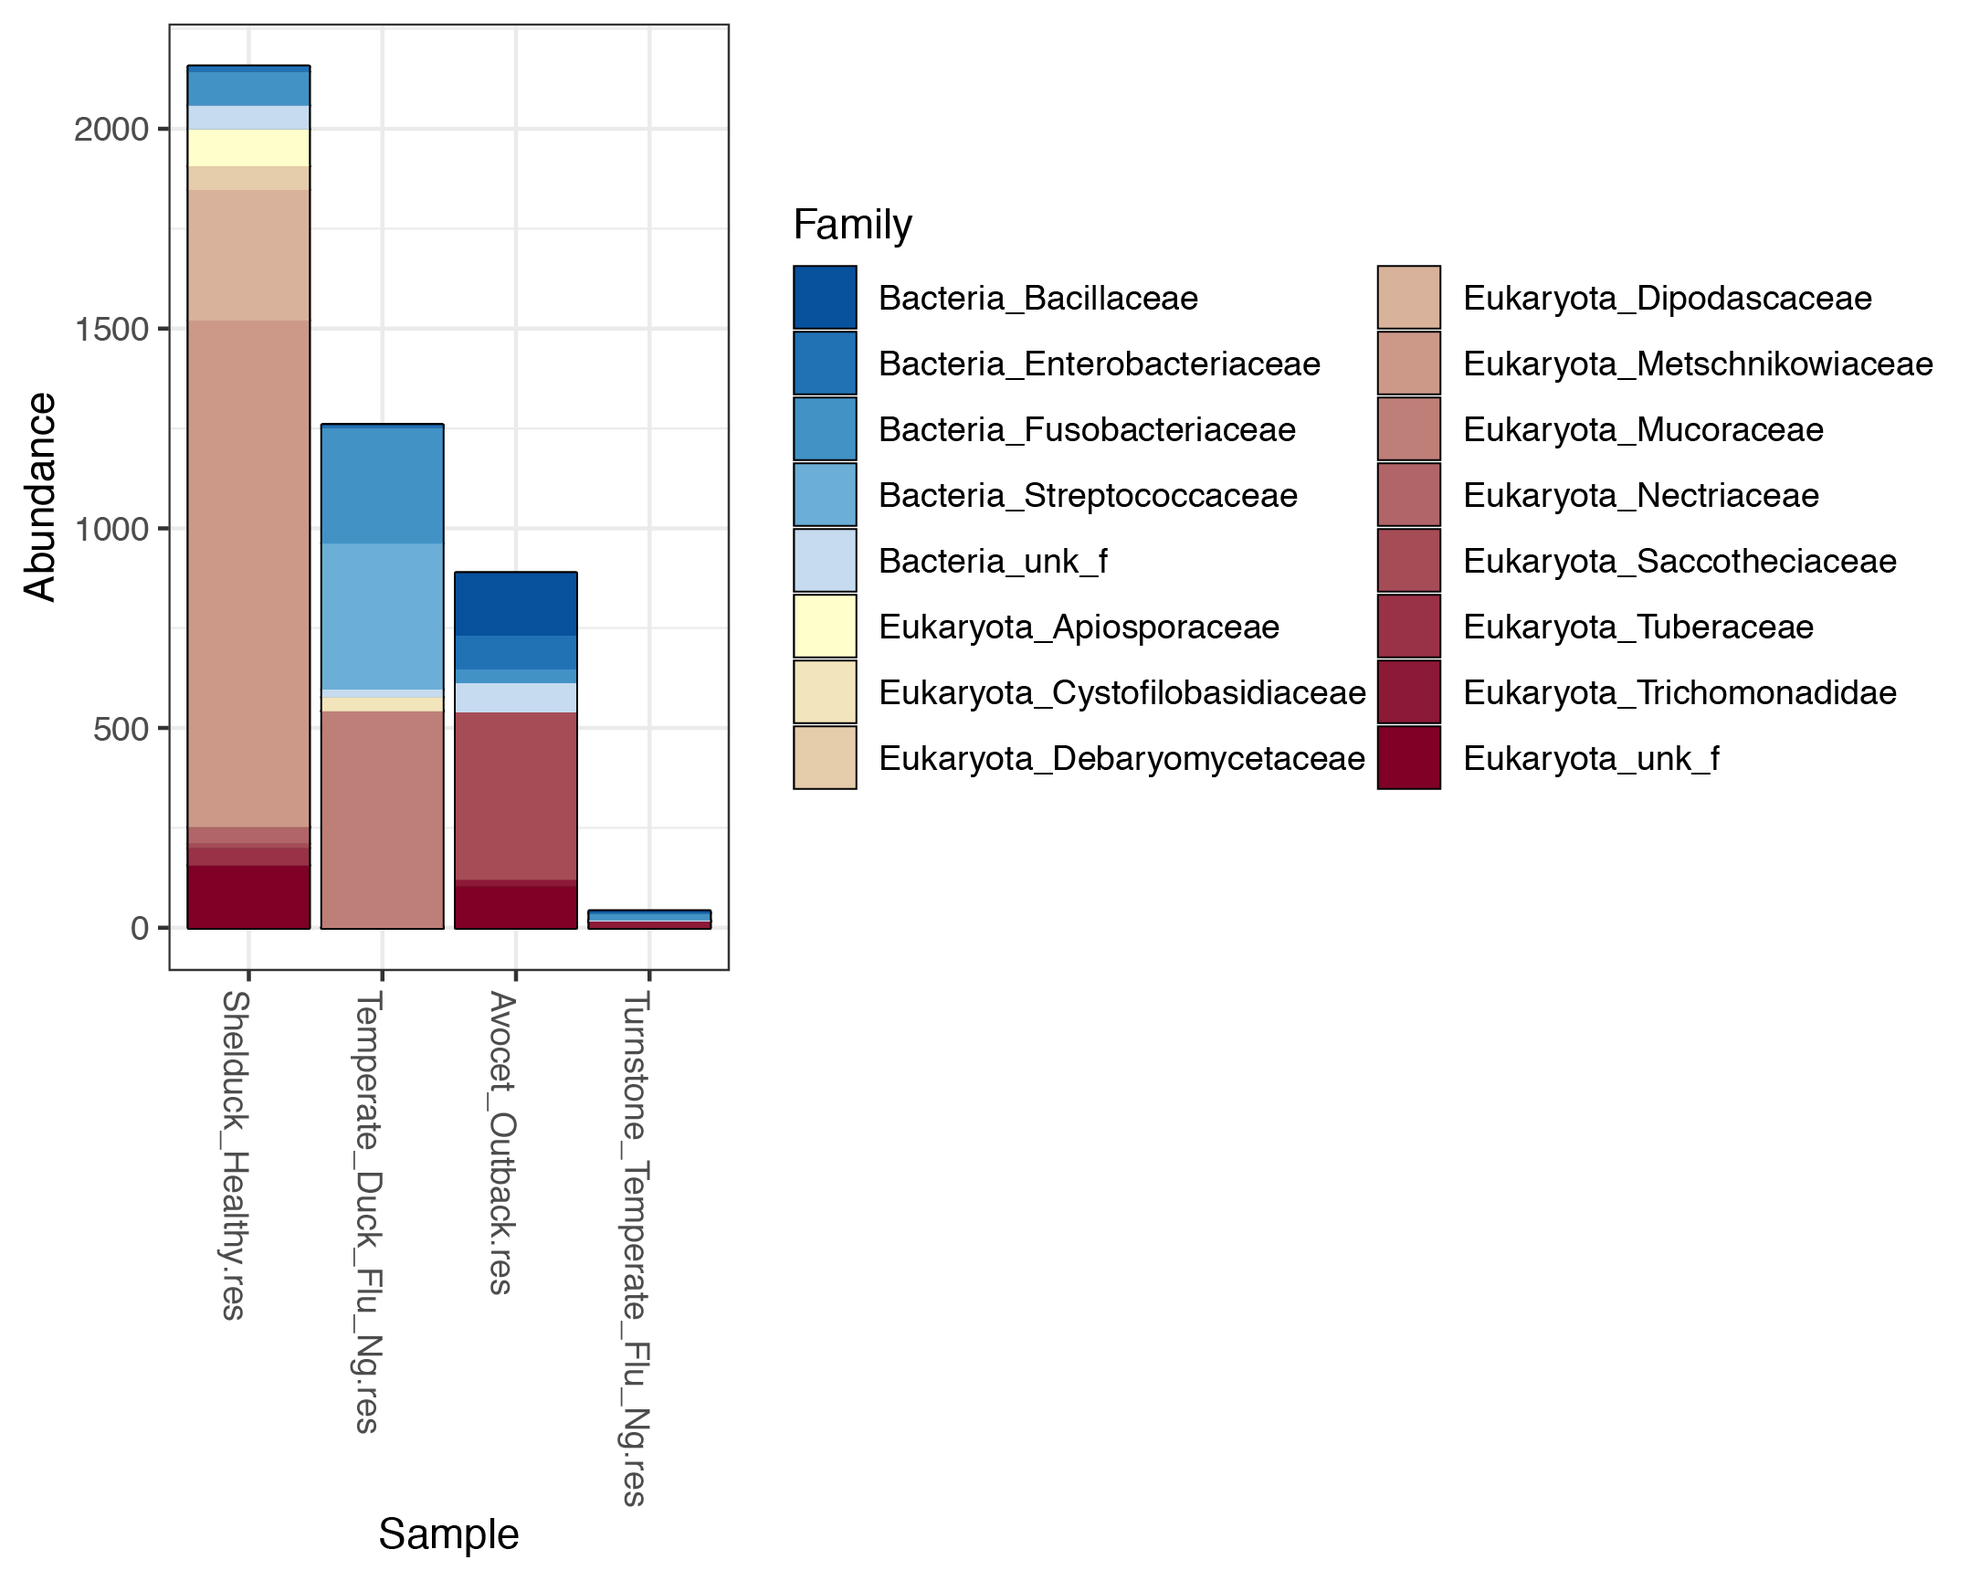
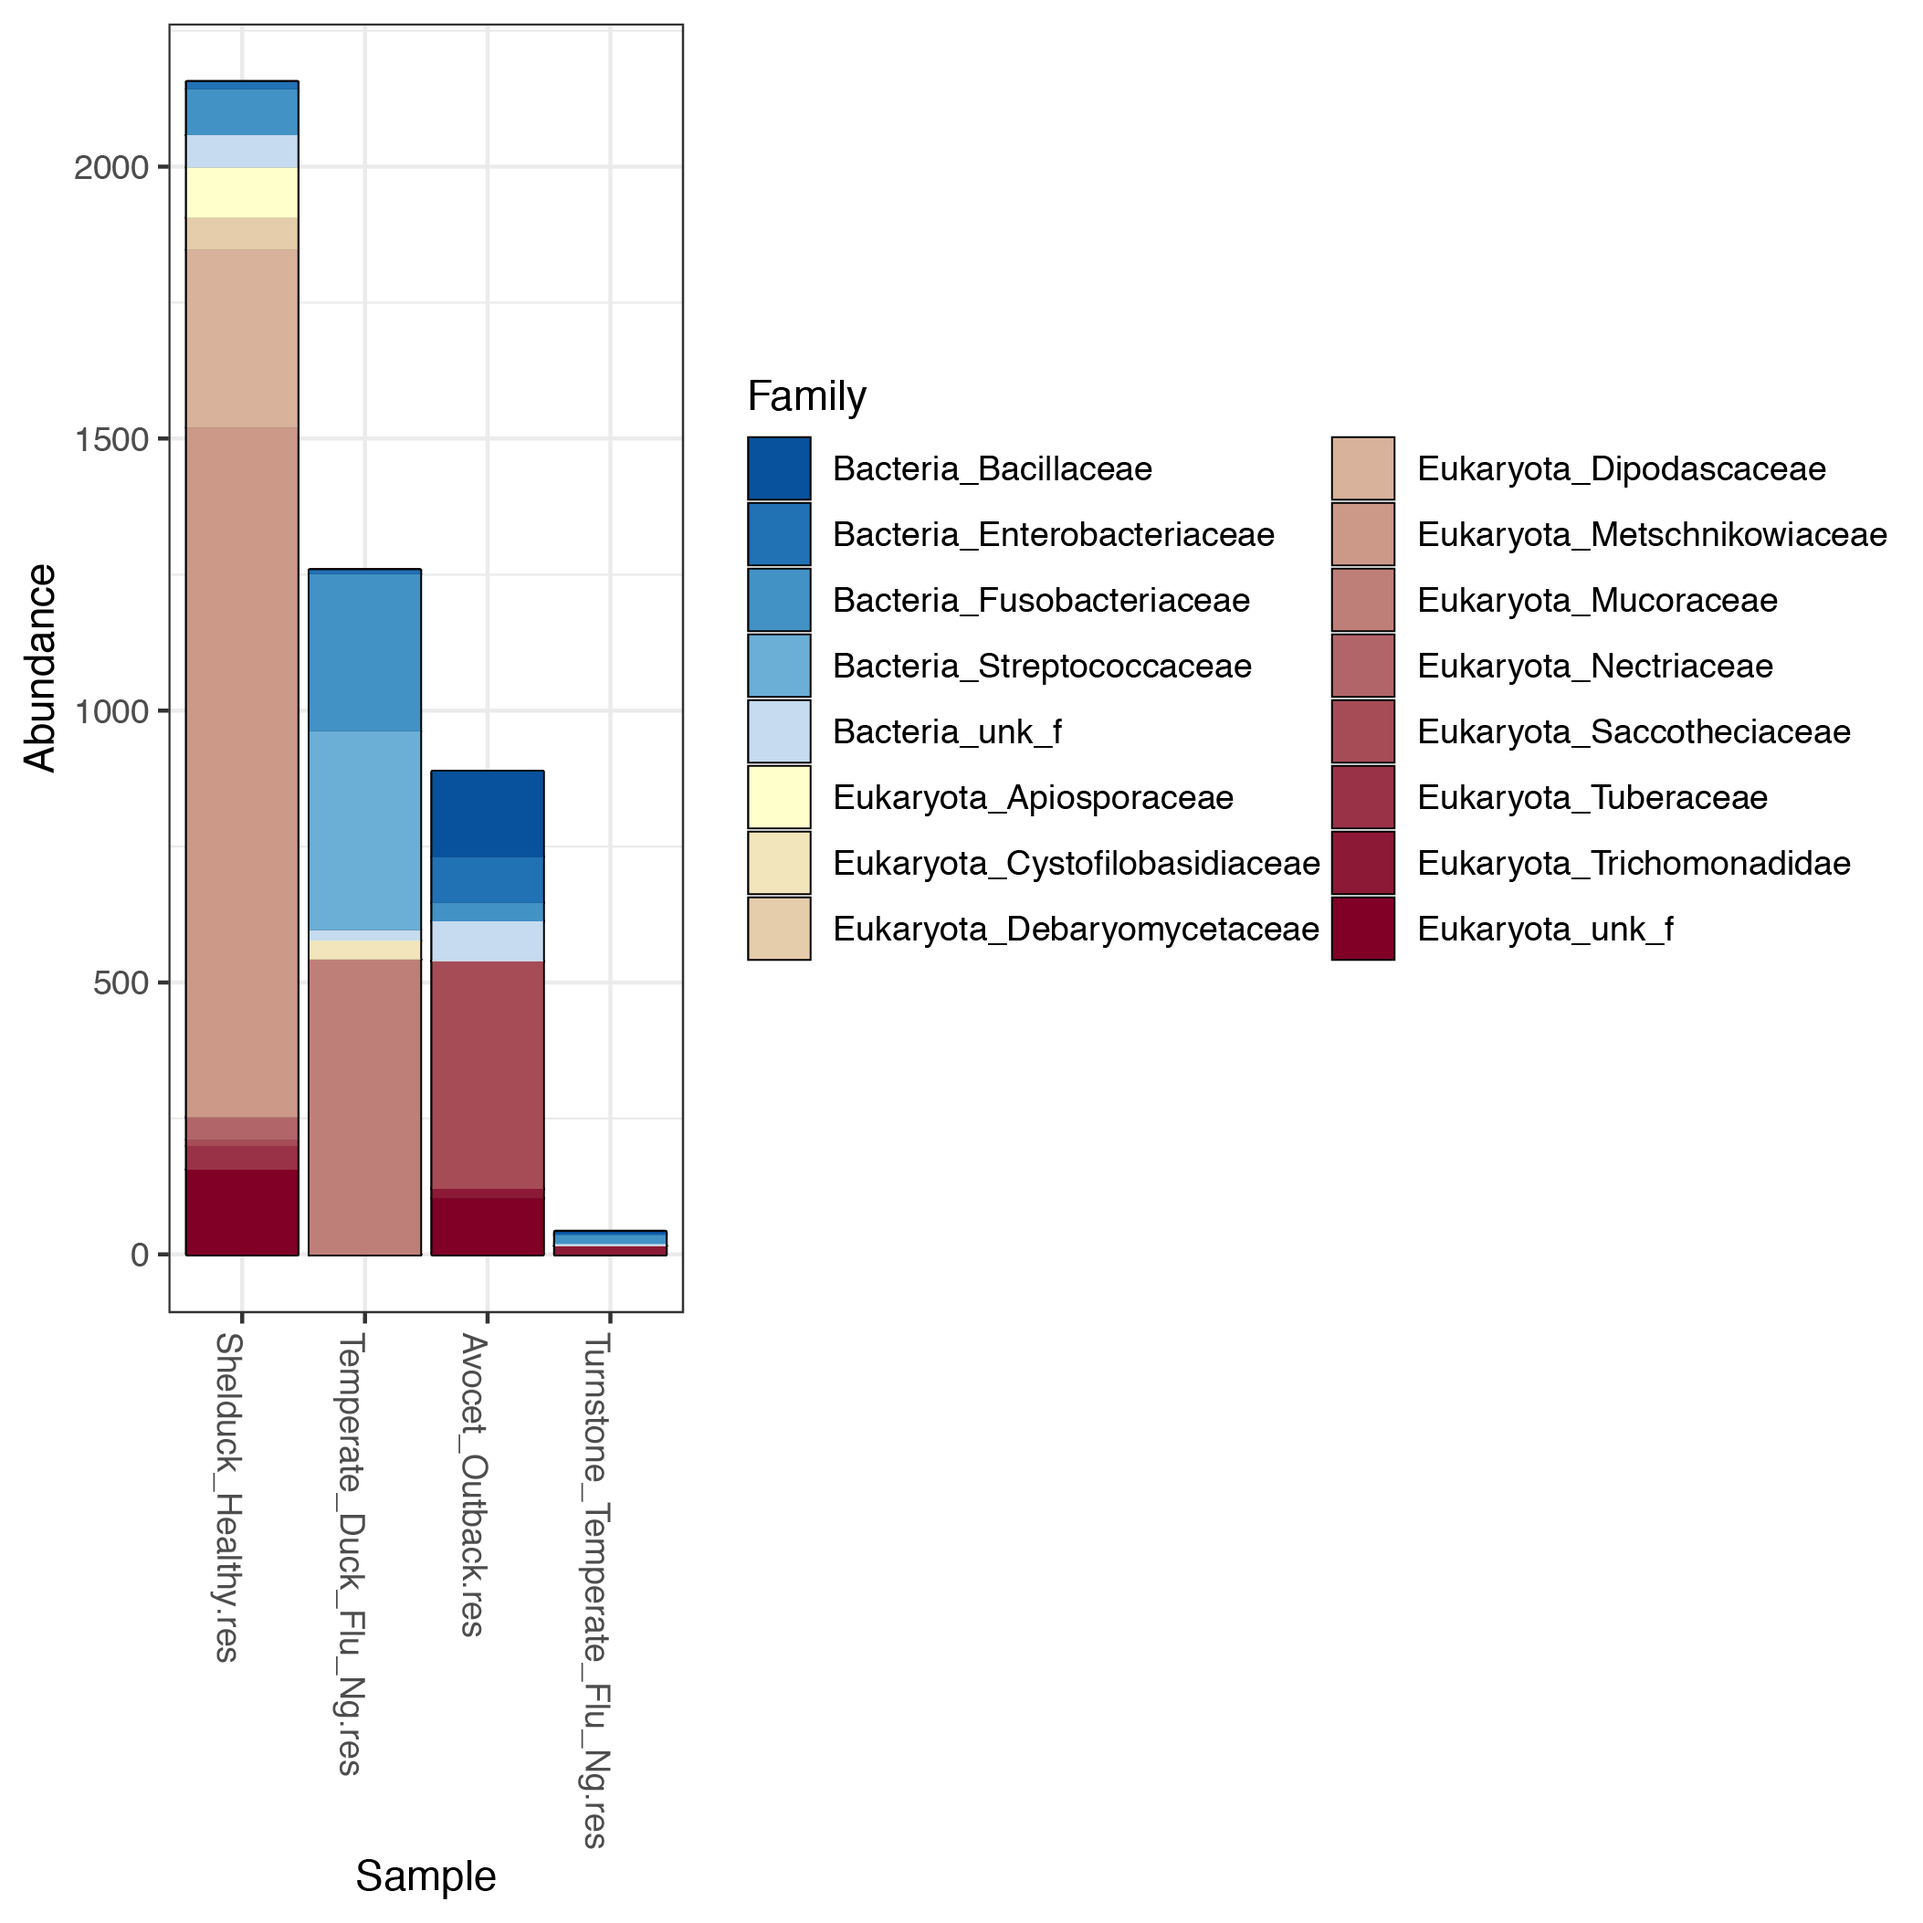
edited tutorial

diff --git a/tutorial/README.md b/tutorial/README.md
@@ -193,7 +193,7 @@ Note that this takes a while for large files
 plot_bar(CCMeta_physeq, fill = "Superkingdom")
 
 ```
-<img src=figs_tutorial/Superkingdom.png width="500" height="450">
+<img src=figs_tutorial/Superkingdom.png width="500" height="500">
 
 You can also fill in teh graphs by Family, but the figure is unclear due to the large number of families.
 Therefore let's keep only the 16 most abundant ones.
@@ -208,7 +208,7 @@ Plot bars, colouring by different taxonomic ranks
 plot_bar(TopFamilies, fill = "Family")
 
 ```
-<img src=figs_tutorial/Most_abudnant_families.png width="500" height="550">
+<img src=figs_tutorial/Most_abudnant_families.png width="500" height="500">
 
 
 ##### Organised plots
@@ -250,7 +250,7 @@ fig <- p + scale_fill_manual(values=family_Palette) +
 
 fig
 ```
-<img src=figs_tutorial/Nicer_fam_figure.png width="500" height="550">
+<img src=figs_tutorial/Nicer_fam_figure.png width="500" height="500">
 
 To reproduce the figure of the full dataset, see R script [here](https://github.com/vrmarcelino/CCMetagen/blob/master/tutorial/PhyloSeq_graphs_publication.R).
 
